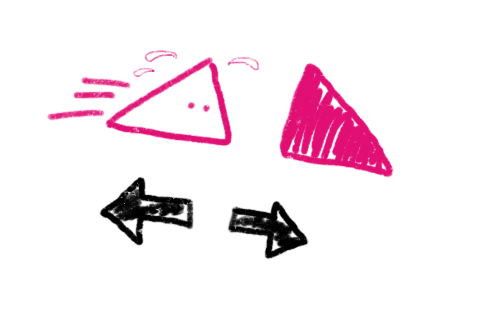
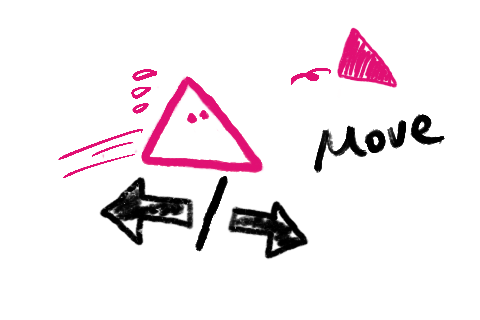
tutorial flow

Changed region(s): [[0.0938, 0.0938, 0.9375, 0.7812]]

diff --git a/archetype.py b/archetype.py
@@ -18,8 +18,7 @@ final_map_height = 2000
 final_map_width = 2800
 
 screen = pygame.display.set_mode((screen_width, screen_height))
-# @zkzh to change later
-pygame.display.set_caption('[ ] % 2 == 0 ?')
+pygame.display.set_caption('%')
 
 # Define font
 font = pygame.font.SysFont('Bauhaus 93', 70)
@@ -62,6 +61,12 @@ game_over_fx.set_volume(0.5)
 # Some global vars that track more complex player actions; for instructions display 
 global glide_ever_used
 glide_ever_used = False 
+global ever_changed
+ever_changed = False 
+global ever_detransformed
+ever_detransformed = False 
+change_1_viewed = False 
+change_2_viewed = False 
 
 def draw_text(text, font, text_col, x, y):
 	img = font.render(text, True, text_col)
@@ -167,7 +172,7 @@ class BlueNPC(pygame.sprite.Sprite):
 
 		self.x_scale, self.y_scale = 2, 5
 		self.hidden = False 
-		self.cropped_height = 10 # @zkzh change this based on drawn assets
+		self.cropped_height = 10 # @zkzh change this based on drawn NPC assets
 		self.body_image, self.eyes_image = self.use_normal_sprites() 
 
 		self.rect = self.body_image.get_rect()		
@@ -442,7 +447,9 @@ class Player():
 		self.reset(x, y) 
   
 	def telekinesis(self):
-		piece = pygame.image.load(f'assets/img/Player/stein_red_1.png')
+		global ever_changed
+		ever_changed = True 
+		piece = pygame.image.load(f'assets/img/Player/frozen.png')
 		self.image = pygame.transform.scale(piece, (80, 80))
 		screen.blit(self.image, (self.rect.x - offset_x, self.rect.y - offset_y))
 		for nugget in dark_nugget_group:
@@ -702,13 +709,10 @@ fly_spin = 0
 teach_box_size = (300, 200)
 instruction_lr_viewed = False 
 instructuin_jump_viewed = False 
+progressive_boxes_position = ()
 
 # Kid
-# @zkzh not finalized yet 
-kid_spawn_points = [
-	# (2040, 400, True), # 1st level test; following from your left
-	# (1530, 900, False)  # 2nd level test; following from you right
-]
+kid_spawn_points = []
 kid_spawn_threshold = 100
 current_clone = None 
 
@@ -725,8 +729,8 @@ scroll_area_width, scroll_area_height = 200, 160
 run = True 
 
 while run:
-    # @zkzh for debugging; remove this later 
-	print("current_pos", player.rect.x, player.rect.y)
+	# @zkzh REMOVE
+	# print("Debugging: current positions at", player.rect.x, player.rect.y)
 	
 	clock.tick(fps)
 	
@@ -747,14 +751,26 @@ while run:
 			instruction = pygame.transform.scale(instruction, teach_box_size)
 			screen.blit(instruction, (player.rect.x, player.rect.y-200))
 		elif not instructuin_jump_viewed and player.rect.x >= 840:
-			instruction = pygame.image.load('assets/img/Enemy/trap.png')
+			instruction = pygame.image.load('assets/img/Tutorial/jump.png')
 			instruction = pygame.transform.scale(instruction, teach_box_size)
 			screen.blit(instruction, (player.rect.x - offset_x - 200, player.rect.y - offset_y - 200))
 		elif not glide_ever_used and player.rect.x >= 1160:
-			instruction = pygame.image.load('assets/img/Enemy/blob.png')
+			instruction = pygame.image.load('assets/img/Tutorial/gliding.png')
 			instruction = pygame.transform.scale(instruction, teach_box_size)
 			screen.blit(instruction, (player.rect.x - offset_x - 200, player.rect.y - offset_y - 200))
-		# @zkzh still need tutorials for change & blue shenanigans; esp. the clicky ones
+		elif not ever_changed and player.rect.x >= 2112:
+			instruction = pygame.image.load('assets/img/Tutorial/changing.png')
+			instruction = pygame.transform.scale(instruction, teach_box_size)
+			screen.blit(instruction, (player.rect.x - offset_x - 200, player.rect.y - offset_y - 200))
+		elif frozen and (not ever_detransformed): 
+			if (not change_1_viewed) and (not change_2_viewed):
+				instruction = pygame.image.load('assets/img/Tutorial/changed_1.png')
+			elif (not change_2_viewed):
+				instruction = pygame.image.load('assets/img/Tutorial/changed_2.png')
+			else:
+				instruction = pygame.image.load('assets/img/Tutorial/changed_3.png')
+			instruction = pygame.transform.scale(instruction, teach_box_size)
+			screen.blit(instruction, (player.rect.x - offset_x - 200, player.rect.y - offset_y - 200))			
 		if frozen == True:
 			player.telekinesis()
 		else:
@@ -836,20 +852,29 @@ while run:
 				instructuin_jump_viewed = True 
 			if frozen and event.key == pygame.K_q:
 				frozen = False 
-			# @zkzh super hacky shit for dev  
+				ever_detransformed = True 
+			# @zkzh REMOVE super hacky shit for dev  
 			if event.key == pygame.K_BACKSPACE:
 				text =  text[:-1]
 			elif event.key == pygame.K_p:
-				print("text: ", text)
+				print("coords you're about to get teleported to: ", text)
 			elif event.key == pygame.K_h:
 				coords = text.split(",")
-				print("lol!", coords[0], coords[1])
+				print("whoooosh--you're about to go to ", coords[0], coords[1])
 				player.rect.x = int(coords[0])
 				player.rect.y = int(coords[1])
 				game_over = player.update(game_over, offset_x, offset_y)
 				text = ""
 			else:
 				text += event.unicode
+		elif event.type == pygame.MOUSEBUTTONDOWN:
+			mouse_x, mouse_y = event.pos  # Get mouse position
+			# Check if click is inside the rectangle
+			if 517 <= mouse_x <= 517+teach_box_size[0]*2 and 90 <= mouse_y <= 90+teach_box_size[1]*2:
+				if not change_1_viewed:
+					change_1_viewed = True  
+				elif not change_2_viewed:
+					change_2_viewed = True 
 			
 	pygame.display.update() 
 			
